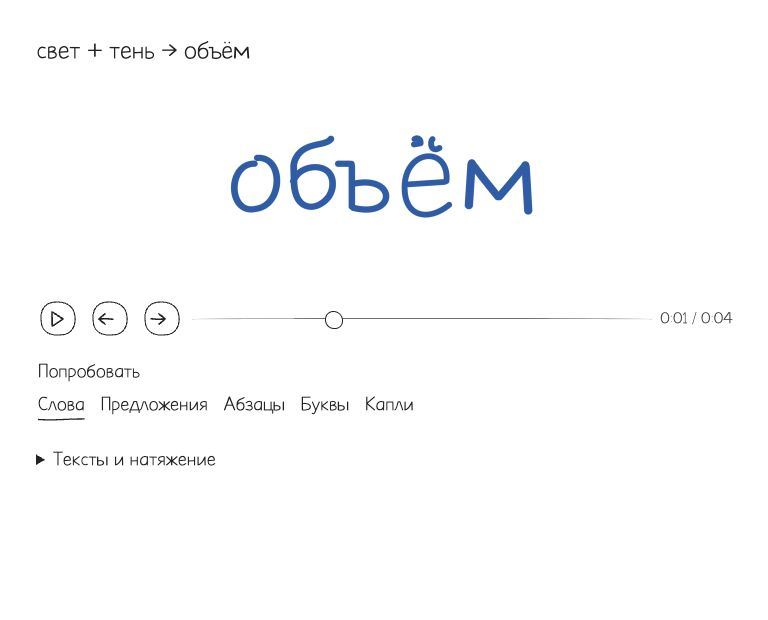
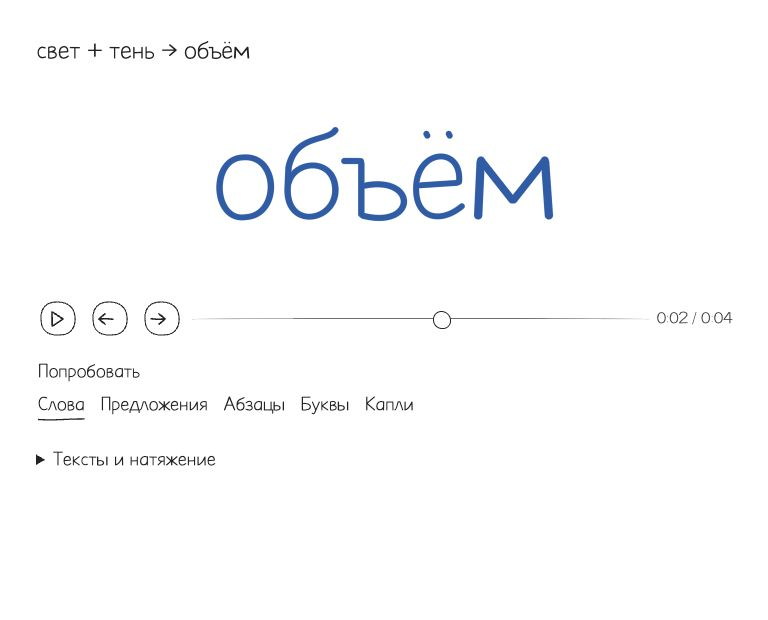
fix(ink): soften text fusion and share destination letters

Changed region(s): [[0.2812, 0.2145, 0.7188, 0.3677], [0.8438, 0.4903, 0.9062, 0.521], [0.5625, 0.4903, 0.5938, 0.521]]

diff --git a/src/ink/fusion/text-routing.ts b/src/ink/fusion/text-routing.ts
@@ -2,21 +2,25 @@ import { inkRoutes, type InkPath, type InkPoint, type InkRoute } from './transpo
 import type { FusionGlyph, FusionShape } from './shape.js';
 
 /** Exact anchors keep their identity; replacement runs retain their reading order. */
-export function orderedPairs(a: readonly string[], b: readonly string[]): [number, number][] {
+export function orderedPairs(
+  a: readonly string[],
+  b: readonly string[],
+  preserveMatches = true,
+): [number, number][] {
   if (!a.length || !b.length) return [];
   const columns = b.length + 1,
     table = new Uint16Array((a.length + 1) * columns);
   for (let i = a.length - 1; i >= 0; i--)
     for (let j = b.length - 1; j >= 0; j--)
       table[i * columns + j] =
-        a[i] === b[j]
+        preserveMatches && a[i] === b[j]
           ? table[(i + 1) * columns + j + 1]! + 1
           : Math.max(table[(i + 1) * columns + j]!, table[i * columns + j + 1]!);
   const anchors: [number, number][] = [];
   let i = 0,
     j = 0;
   while (i < a.length && j < b.length) {
-    if (a[i] === b[j]) {
+    if (preserveMatches && a[i] === b[j]) {
       anchors.push([i++, j++]);
     } else if (table[(i + 1) * columns + j]! >= table[i * columns + j + 1]!) i++;
     else j++;
@@ -106,11 +110,20 @@ export function textRoutes(
   const glyphPairs: [number, number][] = [];
   targetWords.forEach((word, i) => {
     const originals = [...new Set(assigned[i]!)].sort((a, b) => a - b);
-    for (const owner of [0, 1]) {
-      const incoming = originals.filter((j) => source[j]!.owner === owner);
+    const anchored = originals.some((j) => {
+      const { glyph, owner } = source[j]!;
+      return normalize(inputs[owner].text!.words[glyph.word]!.value) === normalize(word.value);
+    });
+    // Unchanged words retain their letters. A new word uses the combined ink of
+    // both suppliers instead of growing two complete copies before they meet.
+    const suppliers = anchored
+      ? [0, 1].map((owner) => originals.filter((j) => source[j]!.owner === owner))
+      : [originals];
+    for (const incoming of suppliers) {
       for (const [a, b] of orderedPairs(
         incoming.map((j) => normalize(source[j]!.glyph.value)),
         word.glyphs.map((j) => normalize(targets[j]!.value)),
+        anchored,
       ))
         glyphPairs.push([incoming[a]!, word.glyphs[b]!]);
     }

diff --git a/src/ink/fusion/surface.ts b/src/ink/fusion/surface.ts
@@ -2,7 +2,7 @@ import { fusionShape, type FusionShape, type FusionPose } from './shape.js';
 import { fusionText } from './text.js';
 import { textRoutes } from './text-routing.js';
 import { inkRoutes } from './transport.js';
-import { inkMotion, textProgress } from './motion.js';
+import { inkMotion } from './motion.js';
 import { fusionFragment, fusionVertex, strokeFragment, strokeVertex } from './shader.js';
 
 export interface FusionFrame {
@@ -50,8 +50,7 @@ export function fusionSurface(parent: HTMLElement, options: FusionOptions = {}) 
     previous: FusionFrame | undefined;
   let motion: ReturnType<typeof inkMotion> | undefined,
     ink = [0, 0, 0],
-    textScale = 1,
-    textShapes = false;
+    textScale = 1;
   let stroke: WebGLProgram, fusion: WebGLProgram;
   let quad: WebGLBuffer, segments: WebGLBuffer;
   let strokeVAO: WebGLVertexArrayObject, fusionVAO: WebGLVertexArrayObject;
@@ -174,8 +173,7 @@ export function fusionSurface(parent: HTMLElement, options: FusionOptions = {}) 
     if (!Number.isFinite((frame.morph ?? 0) + (frame.tension ?? 28)))
       throw new Error('Fusion progress and tension must be finite');
     const morph = Math.max(0, Math.min(1, frame.morph ?? 0));
-    const settled = textShapes ? textProgress(morph) : morph;
-    const tension = Math.max(0, Math.min(64, frame.tension ?? 28)) * textScale * (1 - settled) ** 2;
+    const tension = Math.max(0, Math.min(64, frame.tension ?? 28)) * textScale * (1 - morph) ** 2;
     const band = Math.max(8, tension + 2);
     const vertices = motion(frame.sources, target, morph);
     const bounds = parent.getBoundingClientRect(),
@@ -261,7 +259,6 @@ export function fusionSurface(parent: HTMLElement, options: FusionOptions = {}) 
     canvas,
     setShapes(first: FusionShape, second: FusionShape, target: FusionShape) {
       const allText = first.text && second.text && target.text;
-      textShapes = Boolean(allText);
       motion = inkMotion(
         allText
           ? textRoutes(first, second, target)

diff --git a/examples/ink-fusion/scene.js b/examples/ink-fusion/scene.js
@@ -104,7 +104,7 @@ window.galleryReady = (async () => {
     if (!ready || disposed) return;
     persistence.save({
       modelContent: { type: 'ink-fusion', texts: words, tension, example: scenario },
-      privateContent: { time: clock.state.time, motionRevision: 3 },
+      privateContent: { time: clock.state.time, motionRevision: 4 },
     });
   }
   function changeTexts() {
@@ -197,7 +197,7 @@ window.galleryReady = (async () => {
   function render(time) {
     if (!shapes || disposed) return;
     const t = time / clock.state.duration;
-    const approach = smooth(0.08, 0.34, t);
+    const approach = smooth(0.03, 0.2, t);
     view.render({
       sources: layout.sources.map((pose, i) => ({
         x: pose.x + (layout.block ? 0 : (i ? -1 : 1) * 24 * approach),
@@ -205,7 +205,7 @@ window.galleryReady = (async () => {
       })),
       target: { x: 0, y: 0 },
       tension,
-      morph: 1 - (1 - smooth(0.24, 0.67, t)) ** 3,
+      morph: 1 - (1 - smooth(0.04, 0.9, t)) ** 2,
     });
   }
   function restore(snapshot) {
@@ -229,7 +229,7 @@ window.galleryReady = (async () => {
     cases.setValue(scenario);
     rebuild();
     if (
-      snapshot.privateContent?.motionRevision === 3 &&
+      snapshot.privateContent?.motionRevision === 4 &&
       Number.isFinite(snapshot.privateContent?.time)
     )
       clock.seek(snapshot.privateContent.time);
@@ -305,7 +305,7 @@ window.galleryReady = (async () => {
       view.dispose();
     },
   };
-  if ((!restored || saved?.privateContent?.motionRevision !== 3) && !reduced.matches)
+  if ((!restored || saved?.privateContent?.motionRevision !== 4) && !reduced.matches)
     void clock.play();
 })().catch((error) => {
   document.querySelector('.fusion-error').textContent = error.message;

diff --git a/src/ink/fusion/motion.ts b/src/ink/fusion/motion.ts
@@ -5,8 +5,6 @@ const smooth = (value: number) => {
   const t = Math.max(0, Math.min(1, value));
   return t * t * (3 - 2 * t);
 };
-// Readable text settles early; contact smoothing uses this same phase.
-export const textProgress = (morph: number) => 1 - (1 - morph) ** 10;
 function transformed(point: InkPoint, pose: FusionPose): InkPoint {
   const scale = pose.scale ?? 1,
     c = Math.cos(pose.rotation ?? 0),
@@ -80,9 +78,9 @@ export function inkMotion(routes: InkRoute[]) {
     for (const group of groups.values()) {
       const last: (InkPoint | undefined)[] = group.map(() => undefined);
       const text = group[0]!.text;
-      const gather = smooth(text ? morph / 0.12 : morph / 0.65);
-      const shapeProgress = text ? textProgress(morph) : morph;
-      const placement = shapeProgress;
+      const gather = smooth(morph / 0.65);
+      const shapeProgress = text ? gather : morph;
+      const placement = morph;
       const anchors = text
         ? group.map((r) => transformed([...r.text!.from, 0], sources[r.source]))
         : [];

diff --git a/examples/ink-fusion/README.md b/examples/ink-fusion/README.md
@@ -25,7 +25,9 @@ function frame(progress) {
 // При удалении сцены: ink.dispose().
 ```
 
-Текст сопоставляется по словам, затем по буквам и штрихам. Каждый исходный текст направляется в результат отдельно; совпадающие слова сохраняют свои линии. Добавляемые слова растут из чернил, а формы букв и расстояния между словами устанавливаются в начале перехода. GPU соединяет близкие поверхности локальными перемычками, сила которых уменьшается вместе со сборкой текста. Почерк `SketchPencil` использует исходные векторные штрихи шрифта.
+Слова каждого источника сопоставляются с результатом, затем подбираются буквы и штрихи. Совпадающие слова сохраняют свои линии; новое слово собирается из букв обоих источников без двух полных копий результата. Форма букв оформляется в фазе контакта, положение слов плавно меняется до конца перехода. GPU соединяет близкие поверхности локальными перемычками, сила которых уменьшается вместе со сборкой текста. Почерк `SketchPencil` использует исходные векторные штрихи шрифта.
+
+`morph` задаёт прогресс геометрии; длительность и плавность задаёт общий таймлайн. Поверхность не ускоряет прогресс текста собственной кривой. `InkFusion` отвечает за соответствие штрихов и визуальное слияние. Силы, упругость и столкновения принадлежат `physics` / Rapier; физическую жидкость этот эффект не симулирует.
 
 `InkFusion.text(value, { size, maxWidth, lineHeight, align, font })` переносит слова по ширине и сохраняет явные переносы, включая пустые строки. Размер шрифта остаётся заданным. Для абзацев используй `align: 'left'`; высота готового блока доступна в `shape.bounds.height`. После изменения контейнера пересоздай текст с новой `maxWidth` и вызови `ink.setSize(width, height)`. Пример содержит слова, предложения, абзацы и многострочные поля для собственного текста.
 
